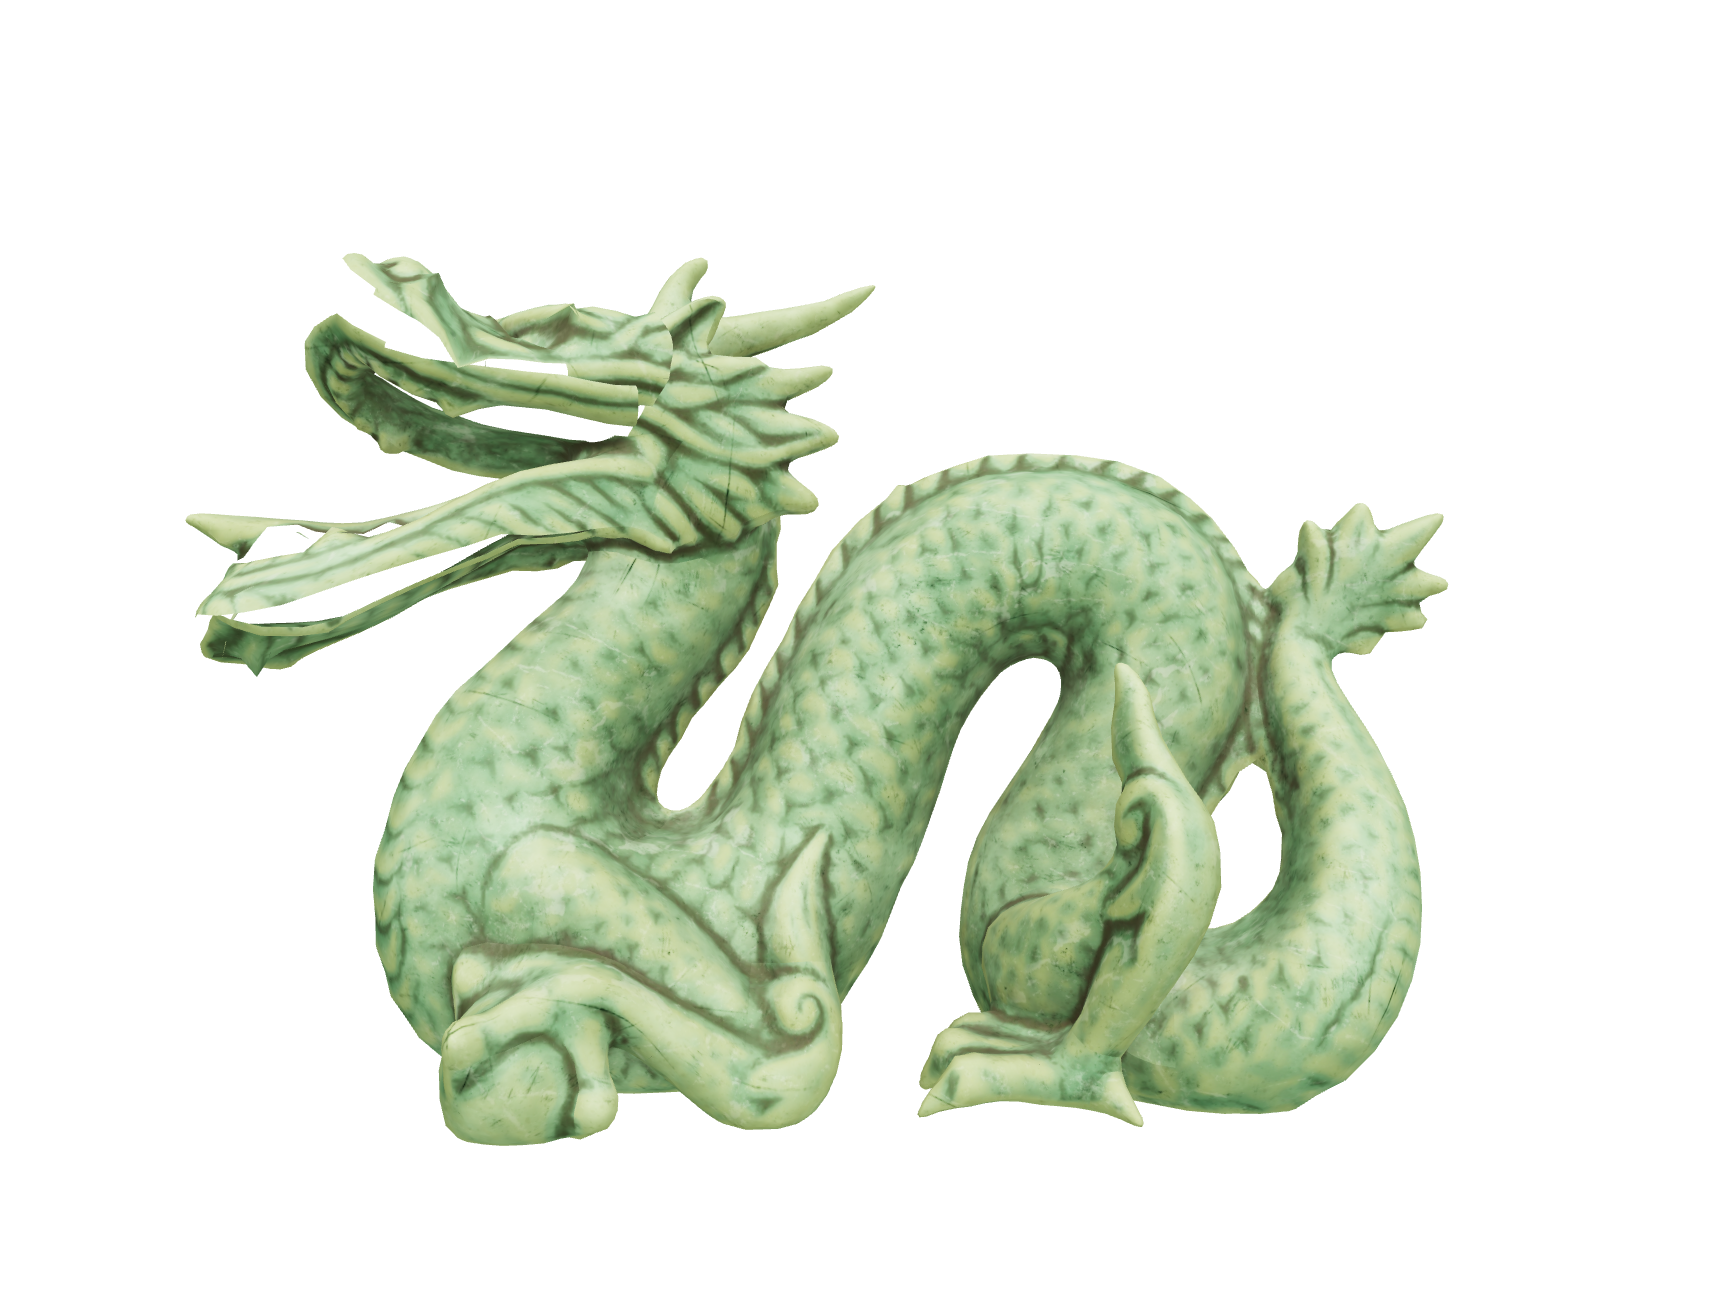
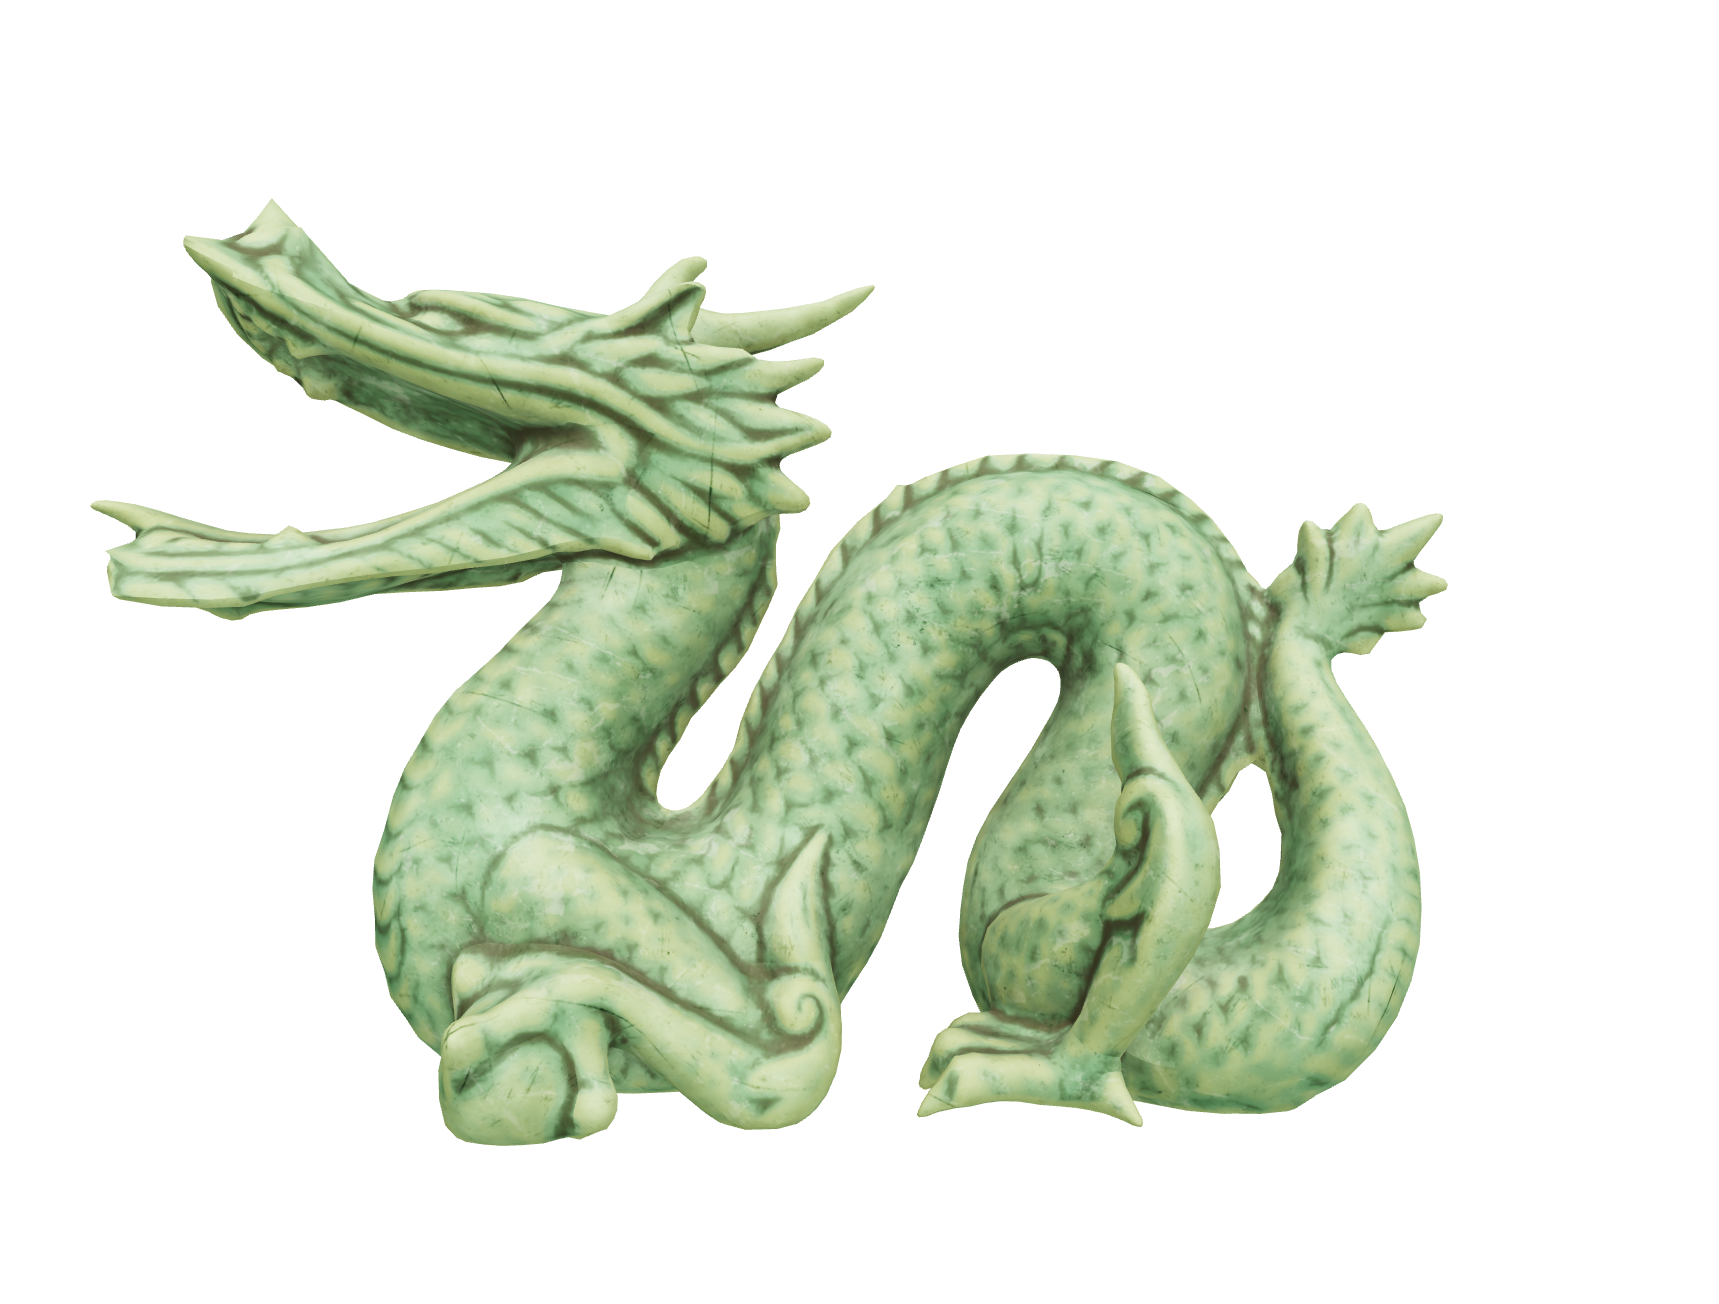
add agent

Changed region(s): [[0.0617, 0.1534, 0.4933, 0.5215]]

diff --git a/index.html b/index.html
@@ -279,6 +279,86 @@
     </div>
   </section>
 
+  <!-- Agent Section -->
+  <section class="section">
+    <div class="container">
+      <h2 class="title is-3" style="text-align:center;">💬 Agent 💬</h2>
+      <p style="text-align:center; margin-bottom: 1.5rem;">
+        A VLM agent drives the editing GUI through tool calls — listing ribs, selecting them, and
+        applying deformations on behalf of the user.
+      </p>
+
+      <div class="agent-transcript">
+        <div class="agent-turn agent-user">
+          <span class="agent-role">user</span>
+          <div class="agent-content">make the four legs thicker</div>
+        </div>
+
+        <div class="agent-turn agent-meta">
+          <span class="agent-role">active part</span>
+          <div class="agent-content"><code>{"type":"active_part","part":"geometry_0"}</code></div>
+        </div>
+
+        <div class="agent-turn agent-tool-call">
+          <span class="agent-role">tool call</span>
+          <div class="agent-content"><code>list_ribs({})</code></div>
+        </div>
+        <div class="agent-turn agent-tool-result">
+          <span class="agent-role">tool result</span>
+          <div class="agent-content">
+            <code>list_ribs:</code> Available ribs on part <code>'geometry_0'</code>:
+            <code>['r1', 'r2', 'r3', 'r4-1', 'r4-2', 'r4-3', 'r5-1', 'r5-2', 'r5-3', 'r6', 'r7', 'r8-1', 'r8-2', 'r8-3', 'r9-1', 'r9-2', 'r9-3', 'r10']</code>
+            <div class="agent-hint">(Names are labelled in the screenshot. Lower indices are usually closer to the part's starting end.)</div>
+            <img class="agent-screenshot" src="static/images/agent/image1.png" alt="list_ribs screenshot" title="Click to enlarge">
+          </div>
+        </div>
+
+        <div class="agent-turn agent-tool-call">
+          <span class="agent-role">tool call</span>
+          <div class="agent-content"><code>select_ribs({"ribs":["r4-2","r5-2","r4-3","r5-3","r8-2","r9-2","r8-3","r9-3"]})</code></div>
+        </div>
+        <div class="agent-turn agent-tool-result">
+          <span class="agent-role">tool result</span>
+          <div class="agent-content">
+            <code>select_ribs:</code> Selected 8 rib(s): <code>['r4-2', 'r5-2', 'r4-3', 'r5-3', 'r8-2', 'r9-2', 'r8-3', 'r9-3']</code>
+            <img class="agent-screenshot" src="static/images/agent/image2.png" alt="select_ribs screenshot" title="Click to enlarge">
+          </div>
+        </div>
+
+        <div class="agent-turn agent-tool-call">
+          <span class="agent-role">tool call</span>
+          <div class="agent-content"><code>deform({"mode":1,"params":{"uniform_scale":1.35}})</code></div>
+        </div>
+        <div class="agent-turn agent-tool-result">
+          <span class="agent-role">tool result</span>
+          <div class="agent-content">
+            <code>deform:</code> Applied mode 1 (uniform_scale) with params <code>{'uniform_scale': 1.35}</code> to 8 rib(s).
+            <img class="agent-screenshot" src="static/images/agent/image3.png" alt="deform screenshot" title="Click to enlarge">
+          </div>
+        </div>
+
+        <div class="agent-turn agent-eval">
+          <span class="agent-role">evaluation</span>
+          <div class="agent-content">✓ APPROVED — The four legs are visibly thicker with smooth geometry and a reasonable magnitude change.</div>
+        </div>
+
+        <div class="agent-turn agent-tool-call">
+          <span class="agent-role">tool call</span>
+          <div class="agent-content"><code>done({"message":"Made all four legs thicker by uniformly scaling the leg ribs outward."})</code></div>
+        </div>
+        <div class="agent-turn agent-tool-result">
+          <span class="agent-role">tool result</span>
+          <div class="agent-content"><code>done:</code> Made all four legs thicker by uniformly scaling the leg ribs outward.</div>
+        </div>
+
+        <div class="agent-turn agent-done">
+          <span class="agent-role">done</span>
+          <div class="agent-content">Made all four legs thicker by uniformly scaling the leg ribs outward.</div>
+        </div>
+      </div>
+    </div>
+  </section>
+
   <!-- Editing Comparison Section -->
   <section class="section">
     <div class="container">
@@ -294,7 +374,7 @@
   <!-- Robot Learning via Scene Diversification Section -->
   <section class="section">
     <div class="container">
-      <h2 class="title is-3" style="text-align:center;">🤖 Robot Learning via Scene Diversification 🤖</h2>
+      <h2 class="title is-3" style="text-align:center;">🤖 Robot Learning via Data Diversification 🤖</h2>
       <p style="text-align:center; margin-bottom: 1.5rem;">
         Policy is trained from Fishbone-generated deformation variants of single objects.
         We present <strong>single object</strong> scene and <strong>multi object</strong> scene for three objects.
@@ -775,6 +855,117 @@
       .editing-header-row > div:nth-child(n+5) {
           display: none;
       }
+  }
+
+  /* Agent transcript */
+  .agent-transcript {
+      max-width: 900px;
+      margin: 0 auto;
+      display: flex;
+      flex-direction: column;
+      gap: 8px;
+  }
+  .agent-turn {
+      display: grid;
+      grid-template-columns: 120px 1fr;
+      gap: 12px;
+      align-items: start;
+      padding: 10px 14px;
+      border-radius: 8px;
+      background: #fafbfc;
+      border: 1px solid #eef0f2;
+  }
+  .agent-role {
+      font-size: 11px;
+      font-weight: 700;
+      text-transform: uppercase;
+      letter-spacing: 0.5px;
+      padding: 4px 8px;
+      border-radius: 4px;
+      text-align: center;
+      align-self: start;
+      white-space: nowrap;
+  }
+  .agent-content {
+      font-size: 13px;
+      line-height: 1.55;
+      color: #2c3e50;
+      word-break: break-word;
+  }
+  .agent-content code {
+      font-family: ui-monospace, "SF Mono", Menlo, Consolas, monospace;
+      font-size: 12px;
+      background: rgba(0,0,0,0.04);
+      padding: 1px 5px;
+      border-radius: 3px;
+      color: #4e659d;
+  }
+  .agent-hint {
+      margin-top: 4px;
+      font-size: 11px;
+      color: #888;
+  }
+  .agent-screenshot {
+      display: block;
+      margin-top: 8px;
+      max-width: 240px;
+      width: 100%;
+      height: auto;
+      border-radius: 6px;
+      border: 1px solid rgba(0,0,0,0.1);
+      cursor: zoom-in;
+      transition: transform 0.15s ease, box-shadow 0.15s ease;
+  }
+  .agent-screenshot:hover {
+      transform: scale(1.02);
+      box-shadow: 0 4px 12px rgba(0,0,0,0.15);
+  }
+
+  /* Lightbox overlay (full-viewport, click-outside-to-close) */
+  .lightbox-overlay {
+      position: fixed;
+      inset: 0;
+      background: rgba(0,0,0,0.85);
+      display: flex;
+      align-items: center;
+      justify-content: center;
+      padding: 4vh 4vw;
+      opacity: 0;
+      pointer-events: none;
+      transition: opacity 0.18s ease;
+      z-index: 9999;
+      cursor: zoom-out;
+  }
+  .lightbox-overlay.open {
+      opacity: 1;
+      pointer-events: auto;
+  }
+  .lightbox-image {
+      max-width: 100%;
+      max-height: 100%;
+      object-fit: contain;
+      border-radius: 6px;
+      box-shadow: 0 8px 40px rgba(0,0,0,0.5);
+      cursor: default;
+  }
+  .agent-user                    { background: #eef4ff; border-color: #d6e2ff; }
+  .agent-user .agent-role        { background: #4e659d; color: #fff; }
+  .agent-meta                    { background: #f4f4f4; border-color: #e0e0e0; }
+  .agent-meta .agent-role        { background: #9aa0a6; color: #fff; }
+  .agent-tool-call               { background: #fff7e6; border-color: #ffe3a3; }
+  .agent-tool-call .agent-role   { background: #d97706; color: #fff; }
+  .agent-tool-result             { background: #ecf8ef; border-color: #c8e6c9; }
+  .agent-tool-result .agent-role { background: #2e7d32; color: #fff; }
+  .agent-eval                    { background: #f3eaff; border-color: #d6c2f5; }
+  .agent-eval .agent-role        { background: #6a3eb5; color: #fff; }
+  .agent-done                    { background: #d4f3d4; border-color: #93d093; font-weight: 600; }
+  .agent-done .agent-role        { background: #1b5e20; color: #fff; }
+  @media (max-width: 768px) {
+      .agent-turn {
+          grid-template-columns: 1fr;
+          gap: 4px;
+      }
+      .agent-role { justify-self: start; }
   }
 
   /* Robot Learning grid: 4-col matrix (label + 3 objects) × 3 rows (header + 2 conditions) */
@@ -1874,6 +2065,38 @@
   }
 
   window.addEventListener('DOMContentLoaded', ensureVideoPlayback);
+
+  // Lightbox: click .agent-screenshot to enlarge; click overlay or press Esc to close.
+  function setupLightbox() {
+      const overlay = document.createElement('div');
+      overlay.className = 'lightbox-overlay';
+      overlay.innerHTML = '<img class="lightbox-image" alt="">';
+      document.body.appendChild(overlay);
+      const imgEl = overlay.querySelector('.lightbox-image');
+
+      function open(src, alt) {
+          imgEl.src = src;
+          imgEl.alt = alt || '';
+          overlay.classList.add('open');
+          document.body.style.overflow = 'hidden';
+      }
+      function close() {
+          overlay.classList.remove('open');
+          document.body.style.overflow = '';
+          // Clear src after transition so it doesn't flash on next open
+          setTimeout(() => { if (!overlay.classList.contains('open')) imgEl.src = ''; }, 200);
+      }
+
+      // Click outside the image closes; clicks on the image itself do not bubble out.
+      overlay.addEventListener('click', e => { if (e.target === overlay) close(); });
+      imgEl.addEventListener('click', e => e.stopPropagation());
+      document.addEventListener('keydown', e => { if (e.key === 'Escape') close(); });
+
+      document.querySelectorAll('.agent-screenshot').forEach(img => {
+          img.addEventListener('click', () => open(img.src, img.alt));
+      });
+  }
+  window.addEventListener('DOMContentLoaded', setupLightbox);
 </script>
 </body>
 </html>
